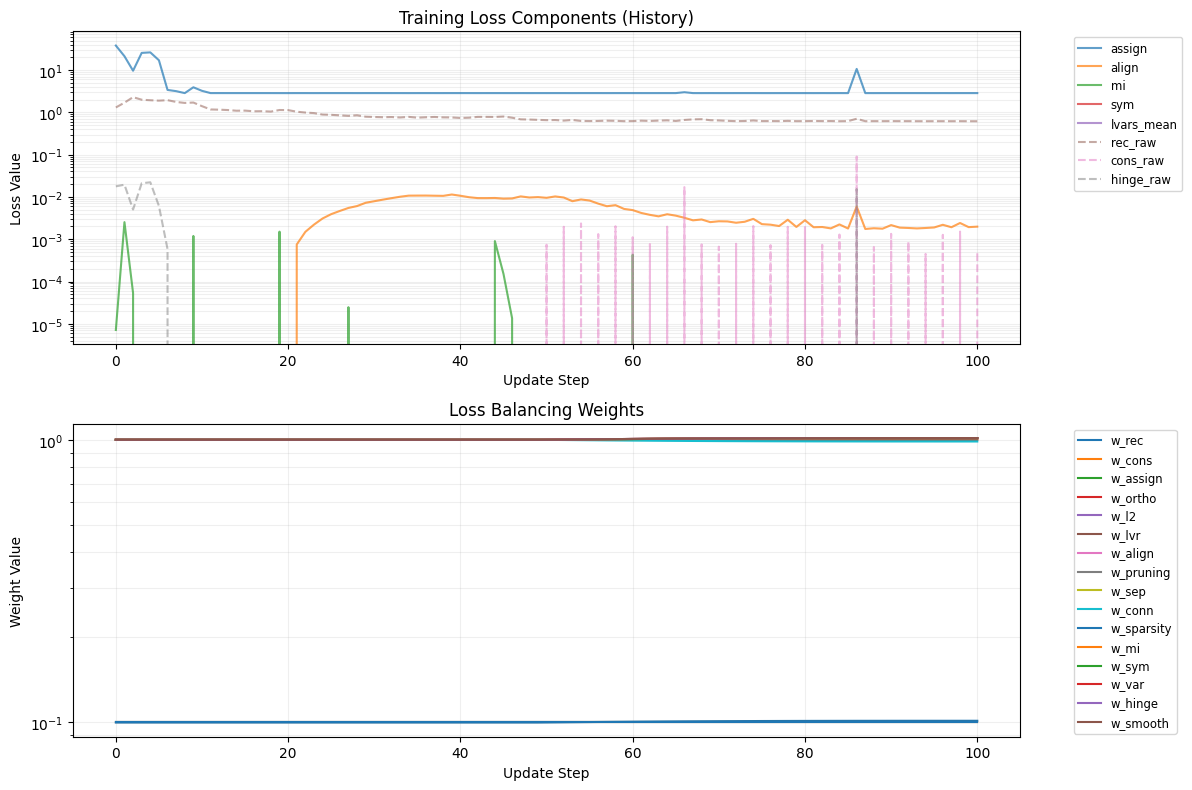
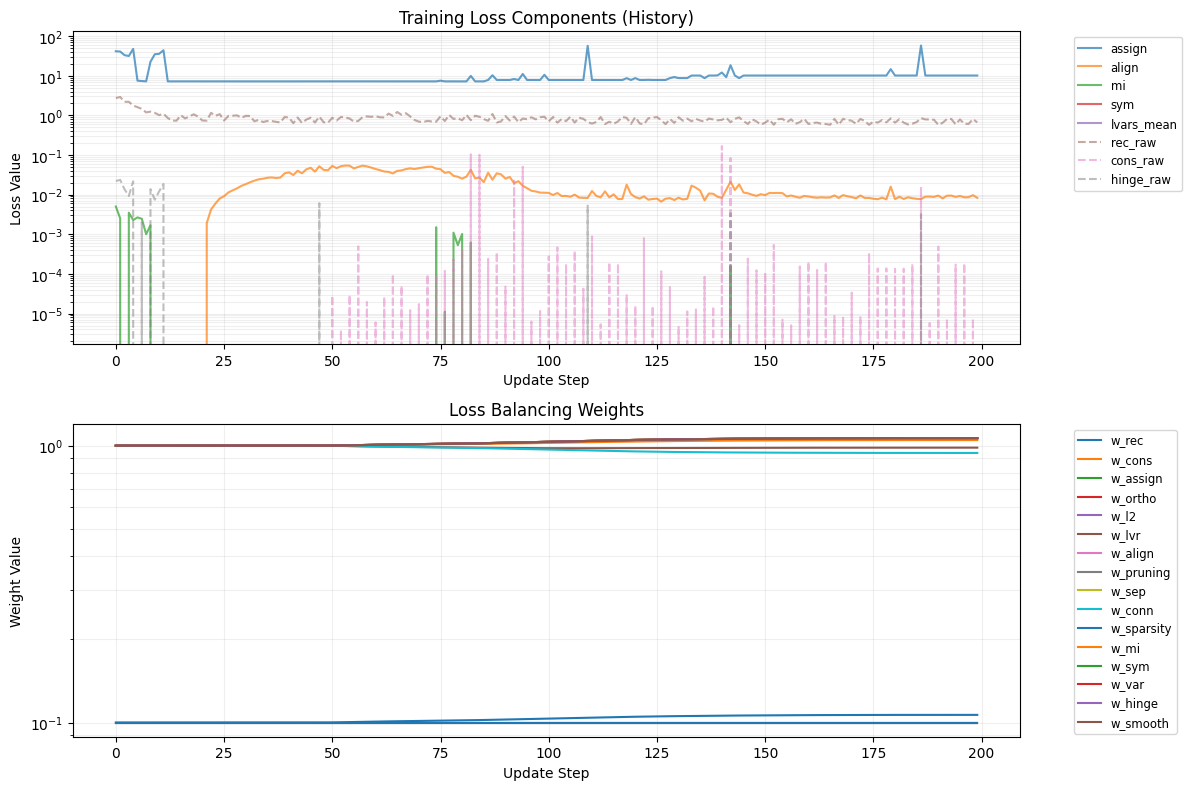
updated

diff --git a/engine.py b/engine.py
@@ -423,7 +423,7 @@ class Trainer:
             {'params': [self.model.log_vars], 'lr': 1e-3}, # Explicitly add log_vars to optimizer with higher LR
         ]
         if h_net_params:
-            param_groups.append({'params': h_net_params, 'weight_decay': 1e-3})
+            param_groups.append({'params': h_net_params, 'weight_decay': 1e-2}) # Increased from 1e-3
         if assign_mlp_params:
             param_groups.append({'params': assign_mlp_params, 'weight_decay': 1e-2}) # Penalize rapid assignment changes
 
@@ -476,11 +476,11 @@ class Trainer:
         # Enhanced assignment loss including stability terms
         loss_assign = (
             entropy_weight * losses_0['entropy'] + 
-            5.0 * losses_0['diversity'] + # Increased from 2.0
-            1.0 * losses_0['spatial'] + # Increased 10x from 0.1
-            2.0 * losses_0.get('collapse_prevention', 0.0) + # Increased from 1.0
-            2.0 * losses_0.get('balance', 0.0) + # Increased from 1.0
-            5.0 * losses_0.get('temporal_consistency', 0.0) # Increased from 2.0
+            1.0 * losses_0['diversity'] + # Weight was already increased by 5x inside pooling layer
+            5.0 * losses_0['spatial'] + # Increased from 1.0 to 5.0 (total 50x from original 0.1)
+            5.0 * losses_0.get('collapse_prevention', 0.0) + # Increased from 2.0 to 5.0
+            5.0 * losses_0.get('balance', 0.0) + # Increased from 2.0 to 5.0
+            10.0 * losses_0.get('temporal_consistency', 0.0) # Increased from 5.0 to 10.0
         )
         
         initial_results = {
@@ -497,15 +497,19 @@ class Trainer:
                 z_in = z_curr.view(z_curr.size(0), -1).detach().requires_grad_(True)
                 if self.mps_ode_on_cpu:
                     z_in_cpu = z_in.cpu()
-                    H = self.model.ode_func.H_net(z_in_cpu).sum()
+                    H_vals = self.model.ode_func.H_net(z_in_cpu)
+                    H = H_vals.sum()
                     dH = torch.autograd.grad(H, z_in_cpu, create_graph=True)[0]
                     if dH is not None:
-                        loss_curv = torch.norm(dH.to(self.device), p=2)
+                        # Add small L2 regularization on H output to prevent scaling to infinity
+                        loss_curv = torch.norm(dH.to(self.device), p=2) + 0.01 * torch.mean(H_vals**2).to(self.device)
                 else:
-                    H = self.model.ode_func.H_net(z_in).sum()
+                    H_vals = self.model.ode_func.H_net(z_in)
+                    H = H_vals.sum()
                     dH = torch.autograd.grad(H, z_in, create_graph=True)[0]
                     if dH is not None:
-                        loss_curv = torch.norm(dH, p=2)
+                        # Add small L2 regularization on H output to prevent scaling to infinity
+                        loss_curv = torch.norm(dH, p=2) + 0.01 * torch.mean(H_vals**2)
         return loss_curv
 
     def _compute_latent_smoothing_loss(self, z_preds):
@@ -664,11 +668,11 @@ class Trainer:
             
             loss_assign += (
                 entropy_weight * losses_t['entropy'] + 
-                5.0 * losses_t['diversity'] + 
-                1.0 * losses_t['spatial'] + # Increased 10x
-                2.0 * losses_t.get('collapse_prevention', 0.0) + 
-                2.0 * losses_t.get('balance', 0.0) +
-                5.0 * losses_t.get('temporal_consistency', 0.0)
+                1.0 * losses_t['diversity'] + 
+                5.0 * losses_t['spatial'] + 
+                5.0 * losses_t.get('collapse_prevention', 0.0) + 
+                5.0 * losses_t.get('balance', 0.0) +
+                10.0 * losses_t.get('temporal_consistency', 0.0)
             )
             loss_pruning += losses_t['pruning']
             loss_sparsity += losses_t['sparsity']
@@ -742,9 +746,9 @@ class Trainer:
         # Add smoothing loss to the total loss - INCREASED WEIGHT FOR DAMPING
         smooth_idx = list(raw_losses.keys()).index('smooth')  # This should be 15
         if smooth_idx < len(lvars):  # Make sure the index exists
-            loss += (weights['smooth'] * 2.0 * torch.clamp(loss_smooth, 0, 100) + lvars[smooth_idx])  # Increased from 5e-1 to 2.0
+            loss += (weights['smooth'] * 20.0 * torch.clamp(loss_smooth, 0, 100) + lvars[smooth_idx])  # Increased from 2.0 to 20.0
         else:
-            loss += weights['smooth'] * 2.0 * torch.clamp(loss_smooth, 0, 100)  # Just apply weight without log_var - INCREASED
+            loss += weights['smooth'] * 20.0 * torch.clamp(loss_smooth, 0, 100)  # Just apply weight without log_var - INCREASED to 20.0
         
         loss = torch.clamp(loss + 0.1 * torch.sum(lvars**2), 0, 1e4)
         if not torch.isfinite(loss): loss = loss_rec if torch.isfinite(loss_rec) else torch.tensor(1.0, device=self.device, requires_grad=True)

diff --git a/stable_pooling.py b/stable_pooling.py
@@ -114,7 +114,8 @@ class StableHierarchicalPooling(nn.Module):
         if self.training:
             # -5.0 is enough to suppress but allows much more gradient flow than -10.0
             # Also add a small random exploration factor to logits of inactive nodes
-            exploration = torch.randn_like(logits) * 0.01
+            # INCREASED: More noise for inactive nodes to encourage exploration (0.01 -> 0.1)
+            exploration = torch.randn_like(logits) * 0.1 * (1.0 - mask) 
             logits = logits + (mask - 1.0) * 5.0 + exploration
         else:
             # Harder mask during inference
@@ -136,7 +137,7 @@ class StableHierarchicalPooling(nn.Module):
             revival_candidate = (avg_s > revival_threshold).float()
 
             # Combine current_active with a small probability of reviving revival_candidates
-            revival_mask = (torch.rand_like(self.active_mask) < 0.1).float() * revival_candidate # Increased prob from 0.05
+            revival_mask = (torch.rand_like(self.active_mask) < 0.2).float() * revival_candidate # Increased prob from 0.1
             effective_active = torch.clamp(current_active + revival_mask, 0, 1)
 
             # Use a much slower EMA for smoothness as requested
@@ -209,7 +210,7 @@ class StableHierarchicalPooling(nn.Module):
 
         assign_losses = {
             'entropy': entropy,
-            'diversity': diversity_loss,
+            'diversity': diversity_loss * 5.0, # Increased by 5x as requested
             'spatial': spatial_loss,
             'pruning': pruning_loss,
             'sparsity': sparsity_loss * self.current_sparsity_weight,
@@ -260,15 +261,29 @@ class StableHierarchicalPooling(nn.Module):
     def apply_hard_revival(self):
         """
         Forcefully revive inactive nodes by re-initializing their assignment MLP weights
-        if they have been inactive (active_mask near zero).
+        if they have been inactive (active_mask near zero) OR if too few nodes are active.
         Called every 50-100 epochs.
         """
         if not self.training:
             return
 
-        inactive_indices = torch.where(self.active_mask < 0.1)[0]
+        inactive_indices = torch.where(self.active_mask < 0.1)[0].tolist()
+        n_active = (self.active_mask > 0.5).sum().item()
+
+        # If too few nodes are active, we might need to revive more than just the near-zero ones
+        if n_active < self.min_active_super_nodes:
+            # Sort all indices by their active_mask value (ascending)
+            all_indices = torch.argsort(self.active_mask).tolist()
+            # Take enough to reach min_active_super_nodes
+            needed = self.min_active_super_nodes - n_active
+            for idx in all_indices:
+                if idx not in inactive_indices and needed > 0:
+                    inactive_indices.append(idx)
+                    needed -= 1
+                if needed <= 0: break
+
         if len(inactive_indices) > 0:
-            print(f"  [Hard Revival] Reviving super-nodes: {inactive_indices.tolist()}")
+            print(f"  [Hard Revival] Reviving super-nodes: {inactive_indices}")
             # Re-initialize the final layer weights for inactive nodes to force new exploration
             with torch.no_grad():
                 # self.assign_mlp[2] is the Linear(in_channels, n_super_nodes) layer
@@ -276,7 +291,7 @@ class StableHierarchicalPooling(nn.Module):
                 for idx in inactive_indices:
                     # Re-initialize the weights for the corresponding output row
                     # We use a larger std to force exploration
-                    nn.init.normal_(last_layer.weight[idx], mean=0.0, std=0.5)
+                    nn.init.normal_(last_layer.weight[idx], mean=0.0, std=1.0) # Increased std to 1.0
                     nn.init.constant_(last_layer.bias[idx], 0.0)
 
                 # Reset active mask for these nodes to allow them to compete immediately

diff --git a/balanced_features.py b/balanced_features.py
@@ -165,9 +165,17 @@ class BalancedFeatureTransformer:
         # z_flat: [Batch, n_super_nodes * latent_dim]
         # Robust clipping of input latents to prevent extreme values
         z_flat_clipped = np.clip(z_flat, -1e3, 1e3)
+        
+        # NEW: Center and normalize raw latents to prevent trivial H = X0 discovery
+        if self.z_mean is not None:
+            z_flat_norm = (z_flat_clipped - self.z_mean) / self.z_std
+        else:
+            z_flat_norm = z_flat_clipped
+            
         z_nodes = z_flat_clipped.reshape(-1, self.n_super_nodes, self.latent_dim)
 
-        features = [z_flat_clipped]
+        # Use normalized latents instead of raw ones in the feature set
+        features = [z_flat_norm]
         
         if self.include_dists and self.basis_functions != 'polynomial_only':
             dist_features = self._compute_distance_features(z_nodes)
@@ -352,7 +360,11 @@ class BalancedFeatureTransformer:
         z_nodes = z_flat.reshape(self.n_super_nodes, self.latent_dim)
         
         # 1. Base features Jacobian (Latents + Distances)
-        jac_list = [np.eye(n_latents)]
+        # Match normalization in transform(): d(z_norm)/dz = 1/z_std
+        if self.z_std is not None:
+            jac_list = [np.diag(1.0 / self.z_std)]
+        else:
+            jac_list = [np.eye(n_latents)]
         
         if self.include_dists:
             i_idx, j_idx = np.triu_indices(self.n_super_nodes, k=1)

diff --git a/unified_train.py b/unified_train.py
@@ -66,7 +66,7 @@ def main():
         lr=args.lr,
         device=device,
         stats=stats,
-        warmup_epochs=50, # Stage 1: Train rec and assign
+        warmup_epochs=100, # Stage 1: Train rec and assign - Increased from 50
         max_epochs=args.epochs,
         sparsity_scheduler=sparsity_scheduler
     )
@@ -115,7 +115,7 @@ def main():
     print(f"Latent Stability (Var[dz]): {dz_stability:.6f}")
 
     # Adjusted Quality Gate: Strict threshold to ensure meaningful physical mapping before distillation
-    rec_threshold = 0.1 if dz_stability < 0.01 else 0.1  # Both cases now use 0.1 threshold
+    rec_threshold = 0.02 if dz_stability < 0.01 else 0.02  # Both cases now use 0.02 threshold
 
     if epoch < 100 or (last_rec > rec_threshold and dz_stability > 0.05):
         reason = ""

diff --git a/model.py b/model.py
@@ -375,7 +375,9 @@ class HamiltonianODEFunc(nn.Module):
         # create_graph=True is necessary for backpropagating through the ODE solver (especially for adjoint)
         with torch.set_grad_enabled(True):
             y_in = y.detach().requires_grad_(True)
-            H = self.H_net(y_in).sum()
+            H_raw = self.H_net(y_in)
+            # Add small L2 regularization on the output to prevent scaling to infinity
+            H = H_raw.sum() + 0.01 * torch.sum(H_raw**2)
             dH = torch.autograd.grad(H, y_in, create_graph=True, allow_unused=True)[0]
             
             if dH is None:
